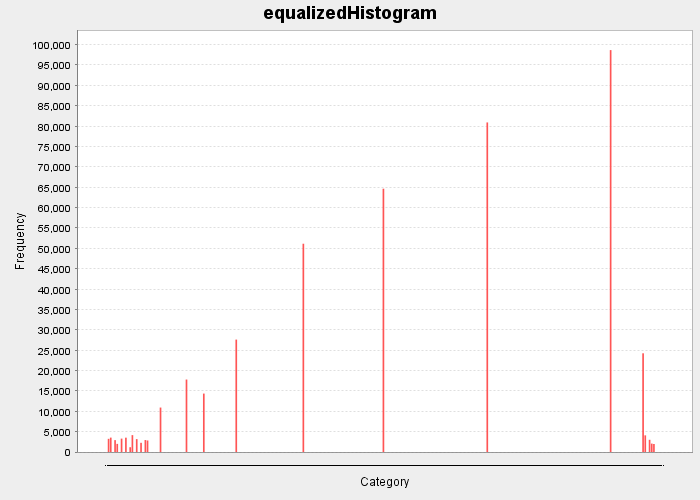
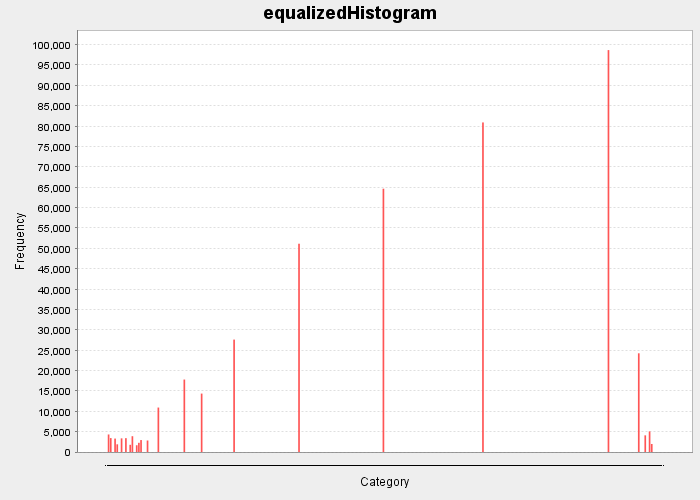
added more time metrics and made the timings more accurate

diff --git a/src/Main.java b/src/Main.java
@@ -1,6 +1,5 @@
 import java.io.File;
 import java.awt.image.BufferedImage;
-import java.nio.file.Files;
 import javax.imageio.ImageIO;
 
 import org.jfree.chart.JFreeChart;
@@ -19,6 +18,15 @@ public class Main {
         System.out.println("instructions: " + instructions);
 
         String color = "gray";
+        int singleColorTime = 0;
+        int saltAndPepperTime = 0;
+        int gaussianTime = 0;
+        int histogramTime = 0;
+        int eqaulizationTime = 0;
+        int linearFilterTime = 0;
+        int medianFilterTime = 0;
+        int quantizationTime = 0;
+
         int meanSquaredError = 0;
         int[] averageHistogram = new int[256];
         File path = new File(imageFilesLocation); // TODO like a try catch or such
@@ -50,7 +58,7 @@ public class Main {
 
 
                     final BufferedImage originalImage = ImageIO.read(files[i]);
-                    File output_file = new File(directoryPath + "original.jpg");//"avg - cell1Gray.jpg");
+                    File output_file = new File(directoryPath + "original.jpg");
                     ImageIO.write(originalImage, "jpg", output_file);
 
                     // TODO which is better gray?
@@ -58,71 +66,103 @@ public class Main {
 //                    output_file = new File("grayscale.jpg");//"avg - cell1Gray.jpg");
 //                    ImageIO.write(singleColorImage, "jpg", output_file);
 
+                    long startTime = System.nanoTime();
                     GrayScale grayScale = new GrayScale(originalImage, color);
                     BufferedImage singleColorImage = grayScale.convertToSingleColor();
-                    output_file = new File(directoryPath + color + ".jpg");//"avg - cell1Gray.jpg");
+                    long time = (System.nanoTime() - startTime) / 1000000;
+                    singleColorTime += time;
+                    output_file = new File(directoryPath + color + ".jpg");
                     ImageIO.write(singleColorImage, "jpg", output_file);
+                    System.out.println("Converting to GrayScale" + " Execution time in milliseconds : " + time);
 
 
 
+                    long startTime = System.nanoTime();
                     NoiseAdder noiseAdder = new NoiseAdder(singleColorImage, "saltAndPepper",0.05, 0, 0);
                     BufferedImage saltAndPepperImage = noiseAdder.addNoise();
-                    output_file = new File(directoryPath + "saltAndPepper.jpg");//"avg - cell1Gray.jpg");
+                    long time = (System.nanoTime() - startTime) / 1000000;
+                    saltAndPepperTime += time;
+                    output_file = new File(directoryPath + "saltAndPepper.jpg");
                     ImageIO.write(saltAndPepperImage, "jpg", output_file);
+                    System.out.println("Adding Salt and Pepper Noise" + " Execution time in milliseconds : " + time);
 
+                    long startTime = System.nanoTime();
                     noiseAdder = new NoiseAdder(singleColorImage, "gaussian", 0, 0, 5);
                     BufferedImage gaussianImage = noiseAdder.addNoise();
-                    output_file = new File(directoryPath + "gaussian.jpg");//"avg - cell1Gray.jpg");
+                    long time = (System.nanoTime() - startTime) / 1000000;
+                    gaussianTime += time;
+                    output_file = new File(directoryPath + "gaussian.jpg");
                     ImageIO.write(gaussianImage, "jpg", output_file);
+                    System.out.println("Adding Gaussian Noise" + " Execution time in milliseconds : " + time);
+
 
 
 
                     long startTime = System.nanoTime();
                     GraphHistogram graphHistogram = new GraphHistogram();
                     int[] histogram = graphHistogram.createHistogram(singleColorImage);
-                    System.out.println("Histogram creation Execution time in milliseconds : " + (System.nanoTime() - startTime) / 1000000);
-
-                    HistogramFunctions histogramFunctions = new HistogramFunctions(singleColorImage, histogram);
-                    BufferedImage equalizedImage = histogramFunctions.equalizedImage();
-                    output_file = new File(directoryPath + "equalizedImage.jpg");//"avg - cell1Gray.jpg");
-                    ImageIO.write(equalizedImage, "jpg", output_file);
+                    long time = (System.nanoTime() - startTime) / 1000000;
+                    histogramTime += time;
+                    System.out.println("Histogram creation Execution time in milliseconds : " + time);
 
                     // print the starting histogram to a file
-                    String graphTitle = "histogram";//files[i].toString(); // TODO looks shitty rn
+                    String graphTitle = "histogram";
+                    JFreeChart defaultHistogram = graphHistogram.graphHistogram(histogram, graphTitle);
+                    String pathName = graphTitle + ".png";
+                    ChartUtilities.saveChartAsPNG(new File(directoryPath + pathName), defaultHistogram, 700 , 500 );
+                    HistogramFunctions histogramFunctions = new HistogramFunctions(singleColorImage, histogram);
+                    averageHistogram = histogramFunctions.sumHistograms(averageHistogram);
+
+
+                    long startTime = System.nanoTime();
+                    HistogramFunctions histogramFunctions = new HistogramFunctions(singleColorImage, histogram);
+                    BufferedImage equalizedImage = histogramFunctions.equalizedImage();
+                    long time = (System.nanoTime() - startTime) / 1000000;
+                    eqaulizationTime += time;
+                    GraphHistogram graphHistogram = new GraphHistogram();
+                    histogram = graphHistogram.createHistogram(equalizedImage);
+                    output_file = new File(directoryPath + "equalizedImage.jpg");
+                    ImageIO.write(equalizedImage, "jpg", output_file);
+                    System.out.println("histogram equalization" + " Execution time in milliseconds : " + time);
+
+                    // print the equalized histogram to a file
+                    String graphTitle = "equalizedHistogram";
                     JFreeChart defaultHistogram = graphHistogram.graphHistogram(histogram, graphTitle);
                     String pathName = graphTitle + ".png";
                     ChartUtilities.saveChartAsPNG(new File(directoryPath + pathName), defaultHistogram, 700 , 500 );
 
-                    averageHistogram = histogramFunctions.sumHistograms(averageHistogram);
 
-                    startTime = System.nanoTime();
-                    histogram = graphHistogram.createHistogram(equalizedImage);
-                    System.out.println("Equalized Histogram creation Execution time in milliseconds : " + (System.nanoTime() - startTime) / 1000000);
-
-                    // print the equalized histogram to a file
-                    graphTitle = "equalizedHistogram";//files[i].toString(); // TODO looks shitty rn
-                    defaultHistogram = graphHistogram.graphHistogram(histogram, graphTitle);
-                    pathName = graphTitle + ".png";
-                    ChartUtilities.saveChartAsPNG(new File(directoryPath + pathName), defaultHistogram, 700 , 500 );
-
-
-
+                    long startTime = System.nanoTime();
                     Filter filter = new Filter(singleColorImage, "average", 3, 3, null, 1);//new int[]{1, 2, 1, 2, 3, 2, 1, 2, 1}, (1/15));
                     BufferedImage avgFilterImage = filter.filter();
-                    output_file = new File(directoryPath + "average.jpg");//"avg - cell1Gray.jpg");
+                    long time = (System.nanoTime() - startTime) / 1000000;
+                    linearFilterTime += time;
+                    output_file = new File(directoryPath + "average.jpg");
                     ImageIO.write(avgFilterImage, "jpg", output_file);
+                    System.out.println("Average Filter" + " Execution time in milliseconds : " + time);
 
+
+                    long startTime = System.nanoTime();
                     filter = new Filter(singleColorImage, "median", 3, 3, null, 1);//new int[]{1, 2, 1, 2, 3, 2, 1, 2, 1}, (1/15));
                     BufferedImage medFilterImage = filter.filter();
-                    output_file = new File(directoryPath + "median.jpg");//"avg - cell1Gray.jpg");
+                    long time = (System.nanoTime() - startTime) / 1000000;
+                    medianFilterTime += time;
+                    output_file = new File(directoryPath + "median.jpg");
                     ImageIO.write(medFilterImage, "jpg", output_file);
+                    System.out.println("Median Filter" + " Execution time in milliseconds : " + time);
 
 
+
+
+                    long startTime = System.nanoTime();
                     Quantization quantization = new Quantization(singleColorImage, 16, color); // NOTE works nicer with a scale that is a factor of 2
                     BufferedImage quantizationImage = quantization.quantization();
-                    output_file = new File(directoryPath + "quantization.jpg");//"avg - cell1Gray.jpg");
+                    output_file = new File(directoryPath + "quantization.jpg");
+                    long time = (System.nanoTime() - startTime) / 1000000;
+                    quantizationTime += time;
                     ImageIO.write(quantizationImage, "jpg", output_file);
                     meanSquaredError += quantization.getMeanSquaredError(quantizationImage);
+                    System.out.println("Quantization" + " Execution time in milliseconds : " + time);
 
                 } catch (Exception e) {
                     System.out.println("Error: " + e);
@@ -130,6 +170,41 @@ public class Main {
             }
             getAverageHistogram(averageHistogram, files.length);
             System.out.println("total meanSquaredError: " + meanSquaredError);
+
+//            o Averaged processing time per image per each procedure // TODO what
+            if (singleColorTime > 0) {
+                System.out.println("Converting to a single color processing time for the entire batch: " + singleColorTime);
+//                System.out.println("Converting to a single color processing time for the entire batch: " + singleColorTime); // TODO something with the other metric?
+            }
+            if (saltAndPepperTime > 0) {
+                System.out.println("Adding salt and pepper noise processing time for the entire batch: " + saltAndPepperTime);
+//                System.out.println("Converting to a single color processing time for the entire batch: " + saltAndPepperTime); // TODO something with the other metric?
+            }
+            if (gaussianTime > 0) {
+                System.out.println("Adding gaussian noise processing time for the entire batch: " + gaussianTime);
+//                System.out.println("Converting to a single color processing time for the entire batch: " + gaussianTime); // TODO something with the other metric?
+            }
+            if (histogramTime > 0) {
+                System.out.println("Histogram creation processing time for the entire batch: " + histogramTime);
+//                System.out.println("Converting to a single color processing time for the entire batch: " + histogramTime); // TODO something with the other metric?
+            }
+            if (eqaulizationTime > 0) {
+                System.out.println("Equalized histogram creation processing time for the entire batch: " + eqaulizationTime);
+//                System.out.println("Converting to a single color processing time for the entire batch: " + eqaulizationTime); // TODO something with the other metric?
+            }
+            if (linearFilterTime > 0) {
+                System.out.println("Linear filter processing time for the entire batch: " + linearFilterTime);
+//                System.out.println("Converting to a single color processing time for the entire batch: " + linearFilterTime); // TODO something with the other metric?
+            }
+            if (medianFilterTime > 0) {
+                System.out.println("Median filter processing time for the entire batch: " + medianFilterTime);
+//                System.out.println("Converting to a single color processing time for the entire batch: " + medianFilterTime); // TODO something with the other metric?
+            }
+            if (quantizationTime > 0) {
+                System.out.println("Quantization processing time for the entire batch: " + quantizationTime);
+//                System.out.println("Converting to a single color processing time for the entire batch: " + quantizationTime); // TODO something with the other metric?
+            }
+
             // TODO add error handling if not a file
 
         }
@@ -143,20 +218,12 @@ public class Main {
 
         try {
             GraphHistogram graphHistogram = new GraphHistogram();
-            String graphTitle = "averageHistogram";//files[i].toString(); // TODO looks shitty rn
+            String graphTitle = "averageHistogram";
             JFreeChart defaultHistogram = graphHistogram.graphHistogram(histogram, graphTitle);
-            String pathName = graphTitle + ".png";
+            String pathName = "results/finalReport/" + graphTitle + ".png";
             ChartUtilities.saveChartAsPNG(new File(pathName), defaultHistogram, 700, 500);
         } catch (Exception e) {
             System.out.println("Error: " + e);
         }
     }
-
-//    Averaged histograms of pixel values for each class of images.
-//    • Histogram equalization for each image.
-//    • Selected image quantization technique for user-specified levels.
-//    • Display the following performance measures
-//      o Processing time for the entire batch per each procedure
-//      o Averaged processing time per image per each procedure
-//      o MSQE for image quantization levels
 }

diff --git a/src/HistogramFunctions.java b/src/HistogramFunctions.java
@@ -38,12 +38,11 @@ public class HistogramFunctions {
     }
 
     // created by modifying https://github.com/schauhan19/Histogram-Equalization/blob/master/HistogramEQ.java
-    public BufferedImage equalizedImage() {// TODO the printed time of this one does not account for the look up table creation
+    public BufferedImage equalizedImage() {
+        // Creates the look up table that is used to reassign pixels
         double scaleFactor = 255.0 / (double) (originalImage.getWidth() * originalImage.getHeight());
-
         int sum = 0;
         imageLUT = new int[256];
-        //create the equalized look up table
         for (int i = 0; i < 256; i++) {
             sum += histogram[i];
             int valr = (int) (sum * scaleFactor);
@@ -56,27 +55,7 @@ public class HistogramFunctions {
         BufferedImage equalizedImage = new BufferedImage(originalImage.getWidth(), originalImage.getHeight(), originalImage.getType());
 
         ParallelMatrix parallelMatrix = new ParallelMatrix();
-//        ProgressBar bar = new ProgressBar("Converting to GrayScale", originalImage.getWidth() * originalImage.getHeight());
-
-        parallelMatrix.doInParallel(equalizedImage, "histogram equalization", getFuncInterface());
-
-        for (int x = 0; x < originalImage.getWidth(); x++) {
-            for (int y = 0; y < originalImage.getHeight(); y++) {
-
-                //get original pixel color
-                Color c = new Color(originalImage.getRGB(x, y));
-                int alpha = c.getAlpha();
-                int gray = (int) (c.getRed() * 0.299) + (int) (c.getGreen() * 0.587) + (int) (c.getBlue() * 0.114);
-
-                // Use the look up table to get the equalized value
-                int nVal = imageLUT[gray];
-
-                // set the new value
-                Color newColor = new Color(nVal, nVal, nVal, alpha);
-                equalizedImage.setRGB(x, y, newColor.getRGB());
-            }
-        }
-
+        parallelMatrix.doInParallel(equalizedImage, getFuncInterface());
         return equalizedImage;
     }
 

diff --git a/src/ParallelMatrix.java b/src/ParallelMatrix.java
@@ -2,7 +2,7 @@ import java.awt.image.BufferedImage;
 
 public class ParallelMatrix {
 
-    public void doInParallel (BufferedImage newImage, String barMessage,
+    public void doInParallel (BufferedImage newImage,
                               OverHeadInterface.FuncInterface code) {
 
         final int MAX_THREADS = Runtime.getRuntime().availableProcessors();
@@ -15,13 +15,13 @@ public class ParallelMatrix {
             threadArray[i].start();
         }
 
-        long startTime = System.nanoTime();
+//        long startTime = System.nanoTime();
         try {
             //wait for all threads
             for (int i = 0; i < MAX_THREADS; i++) {
                 threadArray[i].join();
             }
-            System.out.println(barMessage + " Execution time in milliseconds : " + (System.nanoTime() - startTime) / 1000000);
+//            System.out.println(barMessage + " Execution time in milliseconds : " + (System.nanoTime() - startTime) / 1000000);
         } catch (InterruptedException e) {
             System.out.println("threads were interrupted!"); // TODO what happens then?
         }

diff --git a/src/NoiseAdder.java b/src/NoiseAdder.java
@@ -70,17 +70,10 @@ public class NoiseAdder {
             throw new IllegalArgumentException("randomThreshold must be between 0-1");
         }
 
-        String barMessage = "error bar message";
-        if ("saltAndPepper".equalsIgnoreCase(noiseType)) {
-            barMessage = "Adding Salt and Pepper Noise";
-        } else if("gaussian".equalsIgnoreCase(noiseType)) {
-            barMessage = "Adding Gaussian Noise";
-        }
-
         ParallelMatrix parallelMatrix = new ParallelMatrix();
         BufferedImage saltAndPepperImage = new BufferedImage(originalImage.getWidth(), originalImage.getHeight(), BufferedImage.TYPE_INT_RGB);
 
-        parallelMatrix.doInParallel(saltAndPepperImage, barMessage, getFuncInterface());
+        parallelMatrix.doInParallel(saltAndPepperImage, getFuncInterface());
         return saltAndPepperImage;
     }
 }

diff --git a/src/Filter.java b/src/Filter.java
@@ -80,15 +80,8 @@ public class Filter {
 
         BufferedImage filterImage = new BufferedImage(originalImage.getWidth() - filterWidth, originalImage.getHeight() - filterHeight, originalImage.getType());
 
-        String barMessage = "error bar message";
-        if ("average".equalsIgnoreCase(filterType)) {
-            barMessage = "Average Filter";
-        } else if("median".equalsIgnoreCase(filterType)) {
-            barMessage = "Median Filter";
-        }
-
         ParallelMatrix parallelMatrix = new ParallelMatrix();
-        parallelMatrix.doInParallel(filterImage, barMessage, getFuncInterface());
+        parallelMatrix.doInParallel(filterImage, getFuncInterface());
         return filterImage;
     }
 

diff --git a/src/GrayScale.java b/src/GrayScale.java
@@ -48,7 +48,7 @@ public class GrayScale {
     public BufferedImage convertToSingleColor() {
         ParallelMatrix parallelMatrix = new ParallelMatrix();
         BufferedImage grayImage = new BufferedImage(originalImage.getWidth(), originalImage.getHeight(), BufferedImage.TYPE_INT_RGB);
-        parallelMatrix.doInParallel(grayImage, "Converting to GrayScale", getFuncInterface());
+        parallelMatrix.doInParallel(grayImage, getFuncInterface());
         return grayImage;
     }
 

diff --git a/src/Quantization.java b/src/Quantization.java
@@ -75,7 +75,7 @@ public class Quantization {
         ParallelMatrix parallelMatrix = new ParallelMatrix();
         BufferedImage quantizationImage = new BufferedImage(originalImage.getWidth(), originalImage.getHeight(), BufferedImage.TYPE_INT_RGB);
 
-        parallelMatrix.doInParallel(quantizationImage, "Quantization", getFuncInterface());
+        parallelMatrix.doInParallel(quantizationImage, getFuncInterface());
         return quantizationImage;
     }
 
